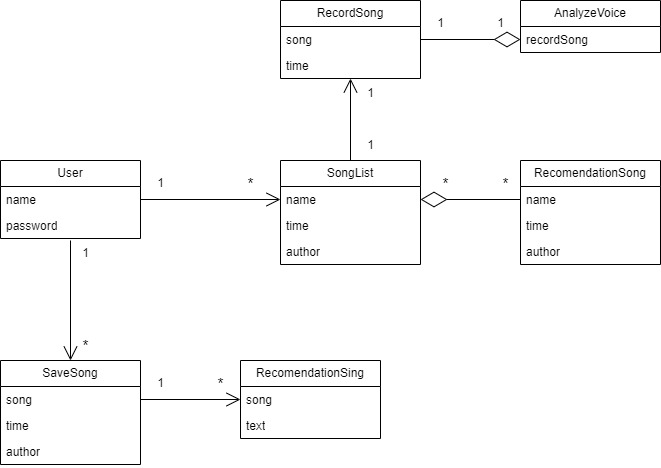
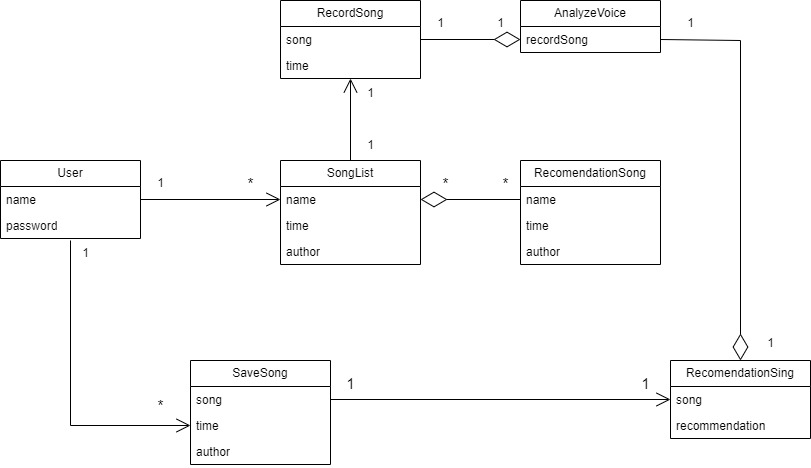
smolkin lab5

diff --git a/2-SoftwareDesign/2.2-AttributeVocabulary/README.md b/2-SoftwareDesign/2.2-AttributeVocabulary/README.md
@@ -1,1 +1,19 @@
 ### Словник атрибутів об’єктів
+| Об’єкт | Атрибут | Короткий опис | Тип | Обмеження |
+| :----: | :-----: | :-----------: | :-: | :-------: |
+| User | name | ім'я споживача | текст | довижна < 50 символів | 
+| User | password | пароль споживача | текст | довижна < 15 символів |
+| SongList | name | назва пісні | текст | довжина < 40 сиволів |
+| SongList | time | час пісні | число | число > 0 |
+| SongList | author | автор пісні | текст | довжина < 50 сиволів |
+| RecordSong | song | назва пісні | текст | довжина < 40 сиволів |
+| RecordSong | time | час пісні | число | число > 0 |
+| AnalyzeVoice | recordSong | запис пісні | recordSong | recordSong != NULL |
+| RecomendationSong | name | назва пісні | текст | довжина < 40 символів |
+| RecomendationSong | time | час пісні | число | число > 0 |
+| RecomendationSong | author | автор пісні | текст | довжина < 50 сиволів |
+| SaveSong | song | назва пісні | текст | довжина < 40 символів |
+| SaveSong | time | час пісні | число | число > 0 |
+| SaveSong | author | автор пісні | текст | довжина < 50 сиволів |
+| RecomendationSing | song | назва пісні | текст | довжина < 40 символів |
+| RecomendationSing | recommendation | рекомендація, щодо покращення співів | текст | довжина < 200 символів |

diff --git a/2-SoftwareDesign/2.1-UMLConceptClasses/README.md b/2-SoftwareDesign/2.1-UMLConceptClasses/README.md
@@ -1,2 +1,2 @@
 ### UML-діаграма концептуальних класів
-![UMLConceptClasses](https://github.com/oleksandrblazhko/ai-215-smolkin/assets/101869573/7eafd86a-0cb3-4f7d-99d9-f4bf1d2c6235)
+![UMLConceptClasses](https://github.com/oleksandrblazhko/ai-215-smolkin/assets/101869573/2d3e019d-7e40-4d6d-9cce-abed98e75345)
